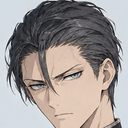
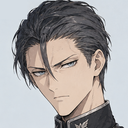
ヴォルフの顔グラを切り直す（あごが切れていたため）
Claude-Session: https://claude.ai/code/session_01AR1wXjuAR5sE8Te44vnUbP

diff --git a/docs/prompts/empire-05-chara.md b/docs/prompts/empire-05-chara.md
@@ -1,6 +1,6 @@
 # 帝国編 第5話「城館の夜」 キャラ（顔グラ）の指示文
 
-> できあがり：`docs/ref/empire-05-faces.png` → `assets/faces/wolf.png`（使う。左上の名前の札は背景の色で塗ってから切った）
+> できあがり：`docs/ref/empire-05-faces.png` → `assets/faces/wolf.png`（使う。左上の名前の札は背景の色で塗ってから切った。あごまで入るように、髪の上から首元までの範囲で切る）
 
 添付：`docs/ref/empire-04-faces.png`（第4話の顔グラの資料。この形式で描くと絵柄がそろう）
 切り抜きはこちらでするので、資料の文字やパネルはあってよい。
